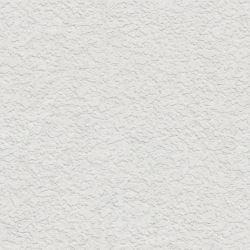
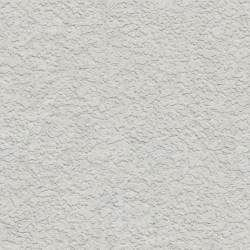
Better textures. Radial lighting. Start of getting external data.

diff --git a/js/fyp.js b/js/fyp.js
@@ -1,0 +1,69 @@
+// AJAX from jadaSite (https://github.com/jadaradix/jadaSite)
+function easyAjax(url, callback) {
+
+  function ajaxSuccess(data) {
+    callback(data);
+  }
+
+  function ajaxFail(error) {
+    console.log(error);
+    callback(null);
+  }
+
+  var ajaxRequest = $.ajax(url);
+  ajaxRequest.done(function(response) {
+    if (!response['error']) {
+      ajaxSuccess(response);
+    } else {
+      ajaxFail(response['error']);
+    }
+  });
+  ajaxRequest.fail(function(response) {
+    ajaxFail("I couldn't reach '" + url + "'");
+  });
+
+}
+
+$(window).load(function() {
+
+  // Get Some Data
+  var topics = ["Self-portraits_by_Rembrandt"];
+  var topic = topics[0];
+  var wikipediaUrl = "http://en.wikipedia.org/w/api.php?format=json&action=query&titles=" + topic + "&prop=revisions&rvprop=content";
+  async.waterfall([
+    function(next) {
+      easyAjax(wikipediaUrl, function(data) {
+        next(null, data);
+      });
+    },
+    function(data, next) {
+      if (data) {
+        console.log(data);
+      }
+    }
+  ]);
+
+  // Get room and walls
+  room = getRoom("room");
+  walls = getWalls(room);
+
+  //Set the room size for the first time
+  resizeRoom();
+
+  //Set the room size when the window resizes
+  $(window).resize(function() {
+    resizeRoom();
+  });
+
+  async.waterfall([
+    function(next) {
+      // room.fadeIn(1000, next);
+      room.fadeIn(1000);
+      next();
+    },
+    function(next) {
+      // setInterval(loopRoom, (1000 / fps));
+    }
+  ]);
+
+});

diff --git a/js/room.js b/js/room.js
@@ -1,11 +1,24 @@
-function getRoomWalls(room) {
+// Internal Definitions
+var room;
+var walls;
+var zoom = 1.2;
+
+// User Definitions
+var perspective = 400;
+var size = 512;
+var translate = 256;
+var fps = 20;
+var zoomIncrement = 0.001;
+
+function getRoom(element) {
+  return $("#" + element);
+}
+
+function getWalls(room) {
   return $("> .walls", room);
 }
 
-function makeRoom(element, size, translate, perspective, zoom) {
-
-  var room = $("#" + element);
-  var walls = getRoomWalls(room);
+function updateRoom() {
 
   // Room
   room.css("width", size + "px");
@@ -27,26 +40,15 @@ function makeRoom(element, size, translate, perspective, zoom) {
 
 }
 
-$(window).load(function() {
+function resizeRoom() {
+  var w = $(window).width();
+  var h = $(window).height();
+  size = Math.min(w, h) - 32;
+  translate = size / 2;
+  updateRoom();
+}
 
-  // Definitions
-  var size = 600;
-  var translate = 300;
-  var perspective = 400;
-  var zoom = 1;
-
-  // Make room, get walls
-  var room = makeRoom("room", size, translate, perspective, zoom);
-  var walls = getRoomWalls(room);
-
-  // Zoom in via VBL
-  function vbl() {
-    walls.css("transform", "translateZ(-" + translate + "px) scaleX(" + zoom + ") scaleY(" + zoom + ")");
-    zoom += 0.001;
-  }
-  // setInterval(vbl, 100);
-
-  // Fade In
-  room.fadeIn(1000);
-
-});
+function loopRoom() {
+  walls.css("transform", "translateZ(-" + translate + "px) scaleX(" + zoom + ") scaleY(" + zoom + ")");
+  zoom += zoomIncrement;
+}

diff --git a/sass/partials/_room.scss b/sass/partials/_room.scss
@@ -1,6 +1,7 @@
 .room {
   display: none;
   position: relative;
+  margin: 16px auto 0 auto;
   overflow: hidden;
   background-color: black;
 
@@ -11,12 +12,14 @@
   }
 
   .overlay {
+      background-image: url("../static/radial.png");
+      background-size: 100% 100%;
     > div {
       position: absolute;
       padding: $spacing;
       opacity: 0.5;
       &, a {
-        color: black;
+        /* color: black; */
       }
       &.top {
         top: 0;
@@ -44,8 +47,9 @@
         img {
           display: block;
           width: 100%;
-          box-shadow: 0 5px 5px rgb(64, 64, 64);
-          border: 4px solid #967117;
+          box-shadow: 0 5px 5px rgb(48, 48, 48);
+          border: 6px solid #5C3317;
+          border-radius: 4px;
         }
       }
     }
@@ -53,6 +57,19 @@
     .wall.left, .wall.right, .wall.back {
       background-image: url("../static/wall.jpg");
       background-size: 55% (55% * (683 / 512));
+    }
+    .wall.back {
+      .door {
+        position: absolute;
+        bottom: 0;
+        width: 45%;
+        height: 100%;
+        margin-left: 15%;
+        background-image: url("../static/door.jpg");
+        background-size: 100% auto;
+        background-position: 0 96px;
+        background-repeat: no-repeat;
+      }
     }
     .wall.top {
       background-image: url("../static/ceiling.jpg");

diff --git a/sass/partials/_colors.scss b/sass/partials/_colors.scss
@@ -52,12 +52,7 @@ $gray: #5D6566;
 .fg-gray { color: $gray; }
 .ts-gray { @include text-shadow($gray); }
 
-$white: white;
-.bg-white { background-color: white; }
-.fg-white { color: $white; }
-.ts-white { @include text-shadow($white); }
-
-$fg: $white;
-$bg: darken($navy, 12%);
+$fg: white;
+$bg: rgb(32, 32, 32);
 $grayer: lighten($light-gray, 15%);
 $grayest: lighten($light-gray, 5%);

diff --git a/sass/partials/_core.scss b/sass/partials/_core.scss
@@ -45,7 +45,6 @@ body {
   background-color: $bg;
   color: $fg;
   font: $font-body-size $font-body;
-  margin: $spacing;
 }
 
 main {
